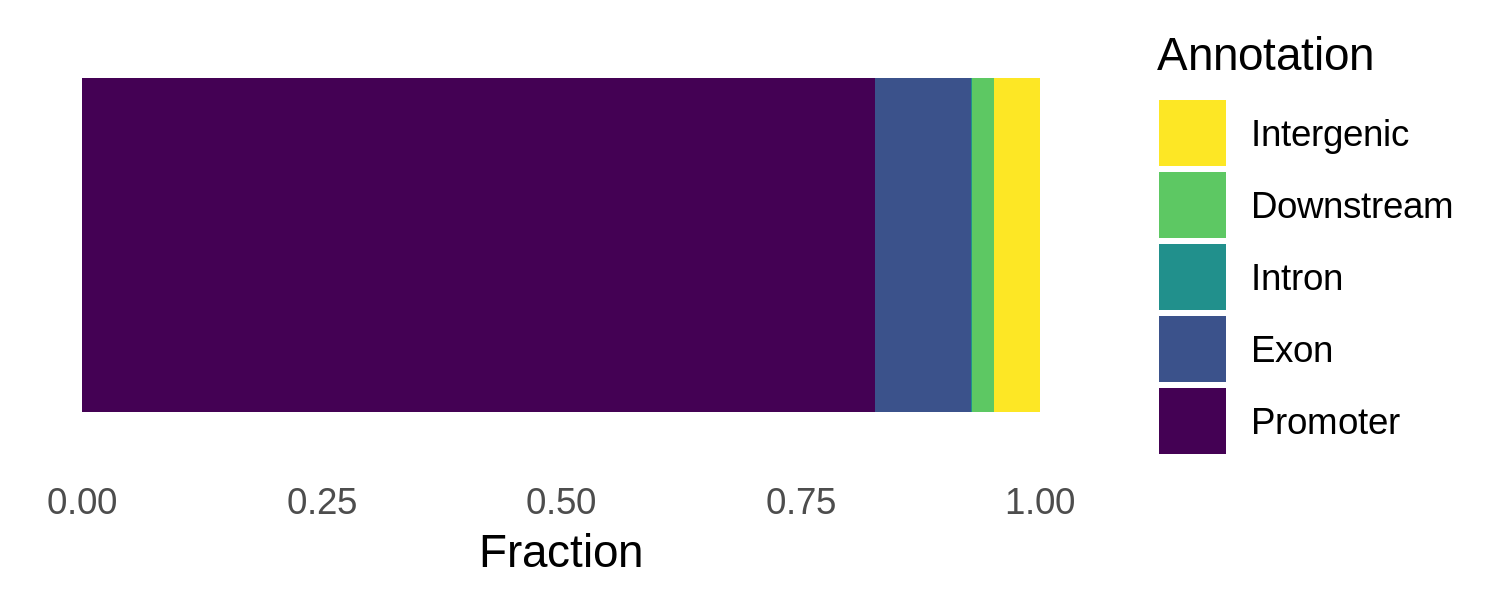
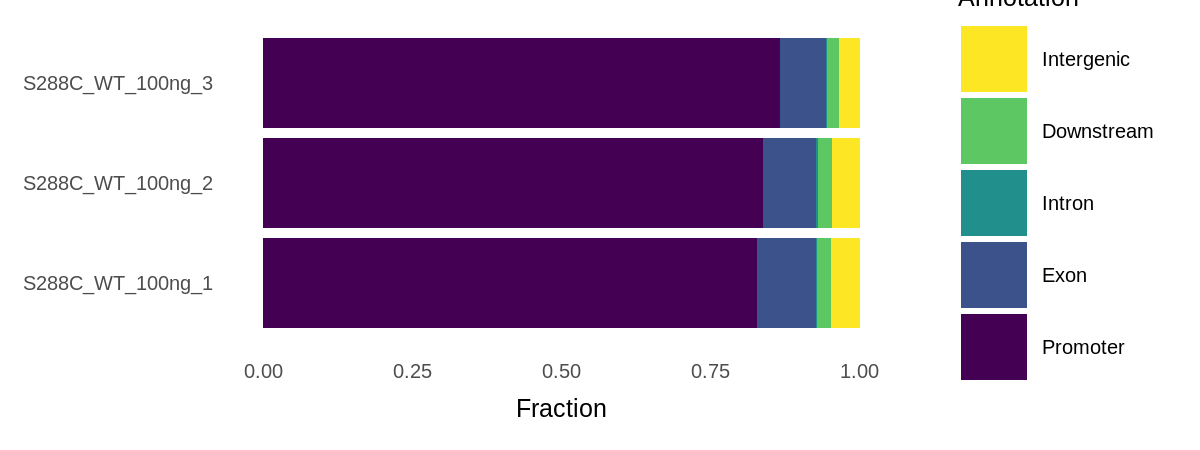
adding multi sample tsr distribution

diff --git a/README.md b/README.md
@@ -227,11 +227,12 @@ exp <- annotate_features(exp, annotation_file = annotation, data_type = "tsr", f
 **TSR Genomic Distribution**
 
 ```
-tsr_distribution <- genomic_distribution(exp, sample = "S288C_WT_100ng_1", data_type = "tsr")
+tsr_distribution <- genomic_distribution(exp, data_type = "tsr")
 
-p <- plot_genomic_distribution(tsr_distribution)
+p <- plot_genomic_distribution(tsr_distribution) +
+	theme(text = element_text(size = 6))
 
-ggsave("tsr_genomic_distribution.png", plot = p, device = "png", type = "cairo", height = 2, width = 5)
+ggsave("tsr_genomic_distribution.png", plot = p, device = "png", type = "cairo", height = 1.5, width = 4)
 ```
 
 ![tsr_genomic_distribution](./inst/images/tsr_genomic_distribution.png)
